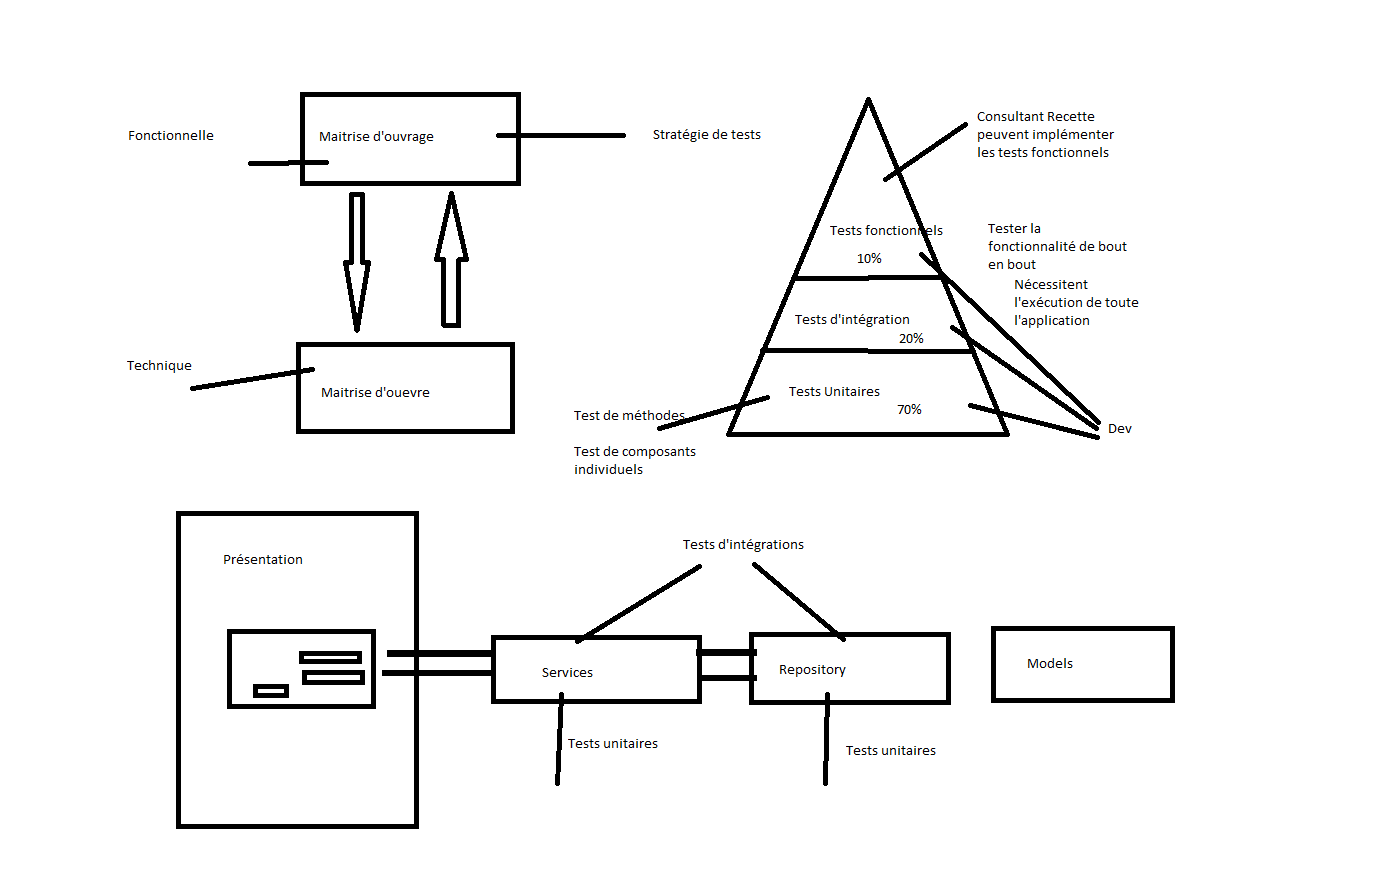
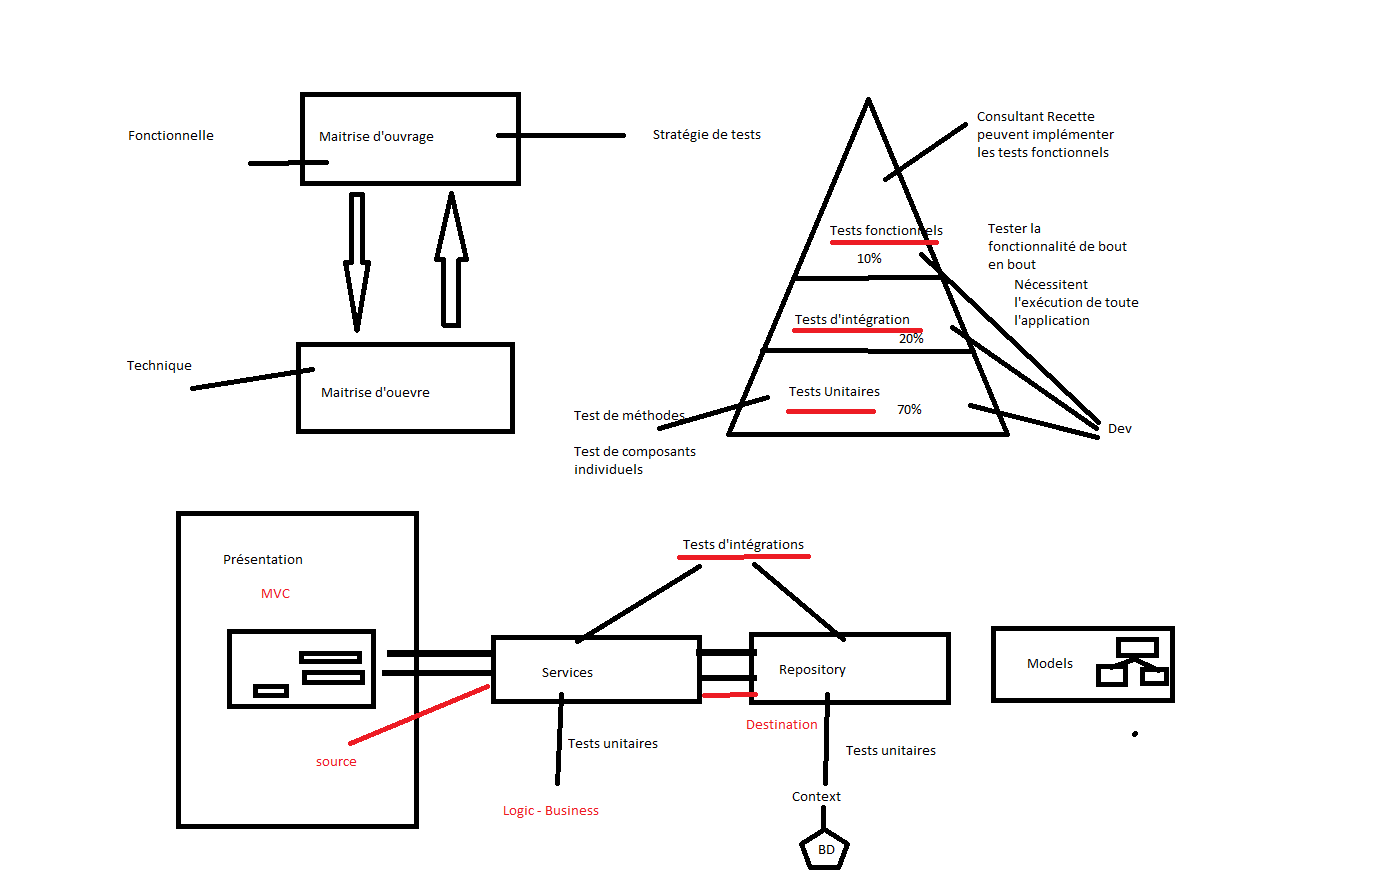
Mocking

diff --git a/WebMVC.Tests/Repositories/ContactRepositoryTests.cs b/WebMVC.Tests/Repositories/ContactRepositoryTests.cs
@@ -24,7 +24,7 @@ namespace WebMVC.Tests.Repositories
 
         [TestMethod]
         [TestCategory("WebMvc Repository Unit Test")]
-        public void GetAllTest()
+        public void a_GetAllTest()
         {
             //Table est vide
             Assert.AreEqual(0, contactRepository.GetAll().Count);
@@ -32,7 +32,7 @@ namespace WebMVC.Tests.Repositories
 
         [TestMethod]
         [TestCategory("WebMvc Repository Unit Test")]
-        public void Insert_Test()
+        public void b_Insert_Test()
         {
             //arrange
             Contact c = new Contact { Id = 1, Name = "dawan" };
@@ -45,5 +45,97 @@ namespace WebMVC.Tests.Repositories
             //Assert
             Assert.AreEqual(tailleApresInsertion, tailleAvantInsertion + 1);
         }
+
+        [TestMethod]
+        [TestCategory("WebMvc Repository Unit Test")]
+        public void c_GetById_Test()
+        {
+            //arrange
+           int id = 1;
+            //Act
+            Contact c = contactRepository.GetById(id);
+
+            //Assert
+            Assert.IsNotNull(c);
+            Assert.AreEqual("dawan", c.Name);
+        }
+
+
+        [TestMethod]
+        [TestCategory("WebMvc Repository Unit Test")]
+        [ExpectedException(typeof(Exception))]  
+        public void d_GetById_IdNotExist_ReturnException()
+        {
+            //arrange
+            int id = 1500;
+            //Act
+            contactRepository.GetById(id);
+        }
+
+        [TestMethod]
+        [TestCategory("WebMvc Repository Unit Test")]
+        public void e_Update_Test()
+        {
+            //arrange
+            int id = 1;
+            Contact c = contactRepository.GetById(id);
+            c.Name = "Autre nom";
+
+            //act
+            contactRepository.Update(c);
+            Contact contactDB = contactRepository.GetById(id);
+
+            //Assert
+            Assert.AreEqual("Autre nom", contactDB.Name);
+
+        }
+
+        [TestMethod]
+        [TestCategory("WebMvc Repository Unit Test")]
+        [ExpectedException(typeof(Exception))]
+        public void f_Update_ContactNotExist_ReturnException()
+        {
+            //arrange
+            Contact c = new Contact { Id = 2500, Name = "New Name" };
+
+            //act
+            contactRepository.Update(c);           
+
+        }
+
+        [TestMethod]
+        [TestCategory("WebMvc Repository Unit Test")]
+        public void g_Delete_Test()
+        {
+            //arrange
+            int id = 1;
+            int tailleAvantSuppression = contactRepository.GetAll().Count;
+
+            //act
+            contactRepository.Delete(id);
+            int tailleApresSuppression = contactRepository.GetAll().Count;
+
+            //assert
+            Assert.AreEqual(tailleApresSuppression, tailleAvantSuppression - 1);
+
+        }
+
+        [TestMethod]
+        [TestCategory("WebMvc Repository Unit Test")]
+        [ExpectedException(typeof(Exception))]
+        public void h_Delete_IdNotExist_ReturnException()
+        {
+            //arrange
+            int id = 300;
+            //act
+            contactRepository.Delete(id);           
+
+        }
     }
 }
+/*
+ * Dans une sute de tests, les méthode sont exécutées par ordre alphabétique
+ * Si on veut définir un ordre d'exécution des méthodes de tests, on doit revoir le nom des méthodes
+ * et repartir d'une base de données de test complètement vide
+ * 
+ */

diff --git a/WebMVC.Tests/Service/ContactServiceUnitTests.cs b/WebMVC.Tests/Service/ContactServiceUnitTests.cs
@@ -1,0 +1,112 @@
+using Microsoft.VisualStudio.TestTools.UnitTesting;
+using Moq;
+using System;
+using System.Collections.Generic;
+using WebMVC.Models;
+using WebMVC.Repositories;
+using WebMVC.Services;
+
+namespace WebMVC.Tests.Service
+{
+    /*
+     * Le service depend complètement du Repository, à priori les tests unitaires pour le Service en sont
+     * pas possibles.
+     * Pour mettre en place des tests unitaires pour la couche Service, on doit utiliser un Framework de Mocking
+     * pour mocker (simuler) le Repository. Java(mockito) - .net (moq)
+     * 
+     * 
+     */
+
+    [TestClass]
+    public class ContactServiceUnitTests
+    {
+        ContactService contactService;
+        Mock<IContact> mockRepo = new Mock<IContact>();
+
+        [TestInitialize]
+        public void Setup()
+        {
+            contactService = new ContactService(mockRepo.Object);
+        }
+
+        [TestMethod]
+        [TestCategory("WebMvc Service Unit Tests")]
+        public void GetAll_Test()
+        {
+            //arrange
+            List<Contact> lst = new List<Contact>();
+            lst.Add(new Contact());
+            lst.Add(new Contact());
+            mockRepo.Setup(a => a.GetAll()).Returns(lst); //simulation du fonctionnement de Repository
+
+            //act
+            var list = contactService.GetAll();
+
+            //assert
+            Assert.AreEqual(2, list.Count);
+        }
+
+        [TestMethod]
+        [TestCategory("WebMvc Service Unit Tests")]
+        public void GetById_Test()
+        {
+            //arrange
+            Contact c = new Contact { Id = 1 , Name="dawan"};
+            mockRepo.Setup(a => a.GetById(1)).Returns(c); //simulation du fonctionnement de Repository
+
+            //act
+            var contact = contactService.GetById(1);
+
+            //assert
+            Assert.AreEqual("dawan", contact.Name);
+            Assert.AreEqual(1, contact.Id);
+        }
+
+        [TestMethod]
+        [TestCategory("WebMvc Service Unit Tests")]
+        public void Insert_Test()
+        {
+            //arrange
+            //Insert du repo est void, ne renvoie aucun résultat
+            //Comment savoir si la méthode insert est appelée?
+
+            Contact c = new Contact { Id = 1, Name = "dawan" };
+            mockRepo.Setup(a => a.Insert(c)).Callback(() => Console.WriteLine("Contact inséré...."));
+
+            //act
+            contactService.Insert(c);
+
+           //Comment savoir si le contact est inséré (la méthode Insert du Service void)?
+           //Il suffit de vérifier si méthode Insert du Repository est appelée.
+        }
+
+        [TestMethod]
+        [TestCategory("WebMvc Service Unit Tests")]
+        public void Delete_Test()
+        {
+            //arrange
+            int id = 10;
+            mockRepo.Setup(a => a.Delete(id)).Callback(() => Console.WriteLine("Contact supprimé...."));
+
+            //act
+            contactService.Delete(id);
+
+           
+        }
+
+        [TestMethod]
+        [TestCategory("WebMvc Service Unit Tests")]
+        public void Update_Test()
+        {
+            //arrange
+            Contact c = new Contact { Id = 1, Name = "dawan" };
+            mockRepo.Setup(a => a.Update(c)).Callback(() => Console.WriteLine("Contact maj: "+c.Name));
+
+            //act
+            c.Name = "New Name";
+            contactService.Update(c);
+
+
+        }
+    }
+}

diff --git a/WebMVC.Tests/Controllers/HomeControllerTest.cs b/WebMVC.Tests/Controllers/HomeControllerTest.cs
@@ -20,7 +20,7 @@ namespace WebMVC.Tests.Controllers
 
             // Act
             ViewResult result = controller.Index() as ViewResult;
-
+          
             // Assert
             Assert.IsNotNull(result);
         }
